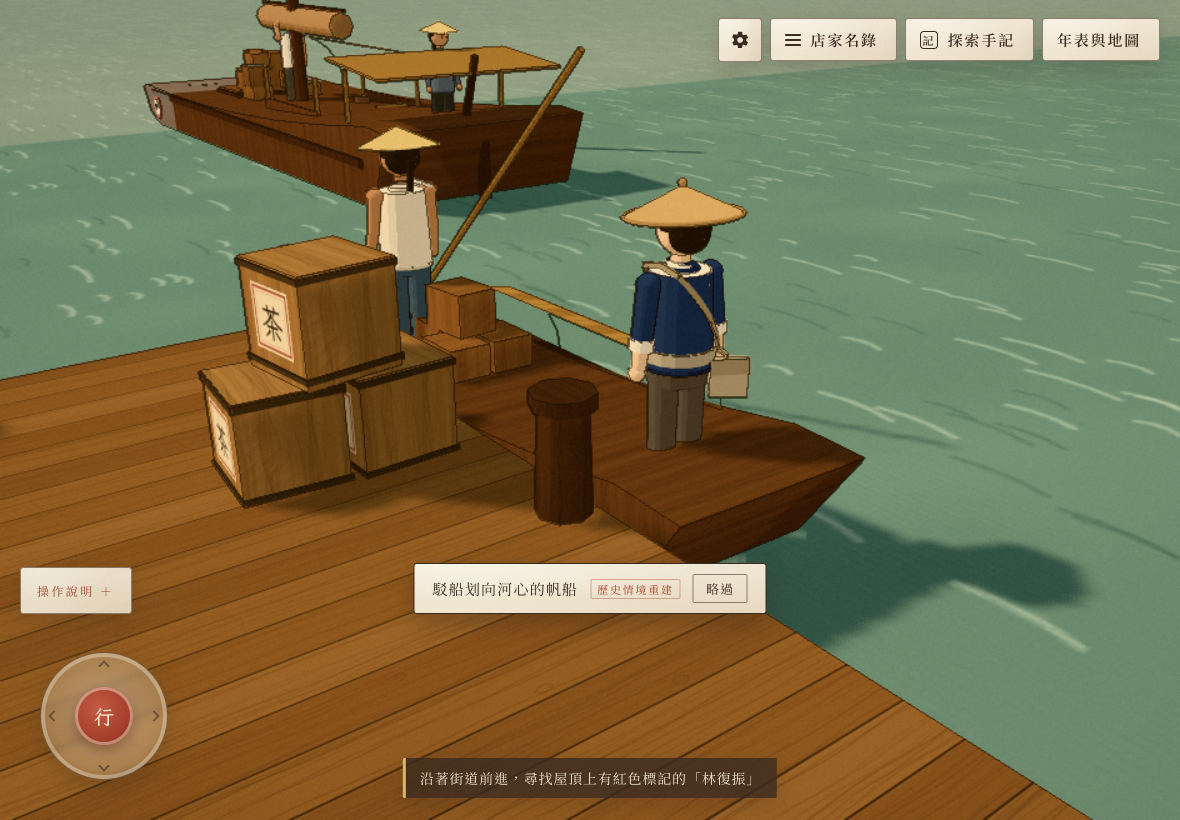
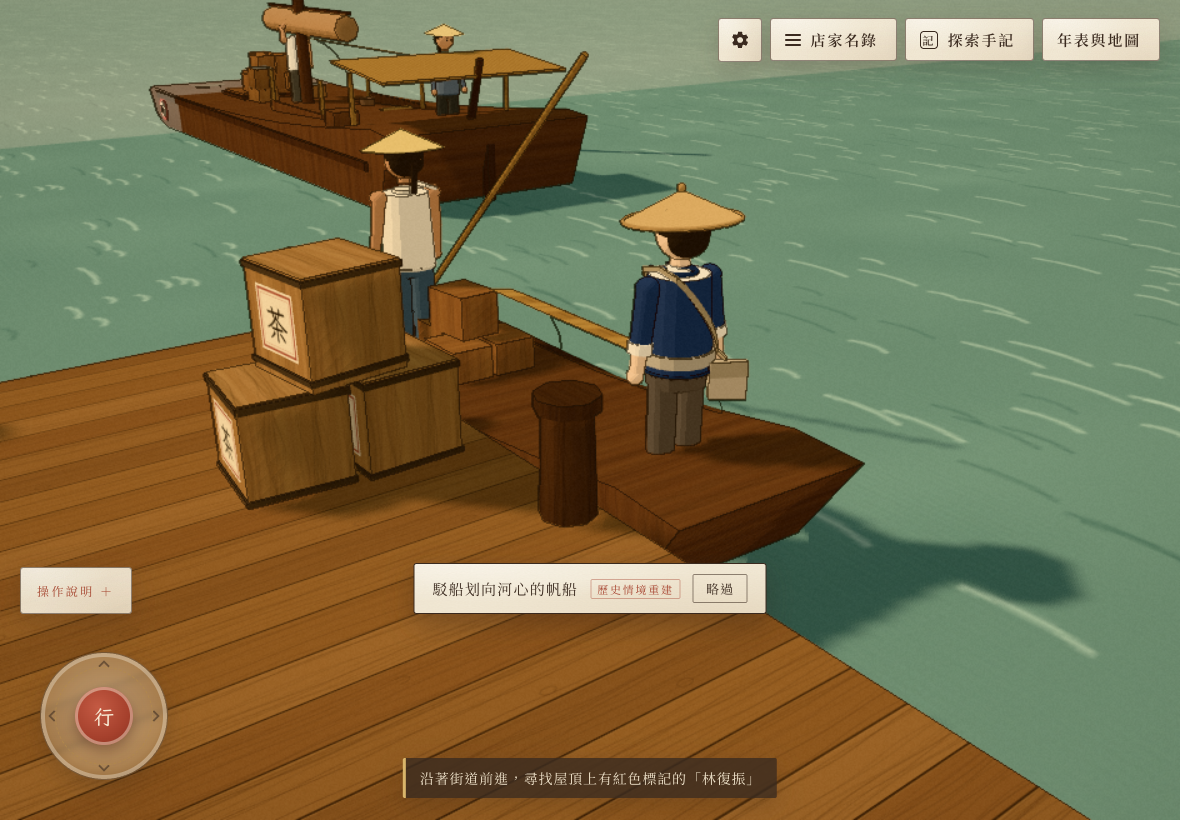
清末搭船: 鴉片箱（只呈現箱子、價格與稅）
- 後甲板右舷角落兩個疊起的鴉片箱，第五件可以近看的器物；外觀查無是重建，不畫內容物、不寫吸食，動作只有轉面
- 五層資訊：封鎖期南部每箱多達一千元（約 p.235）、臺北城改良捐每箱十一元（p.212）、每箱 150–180 元那筆標待核（約 p.246）、1860 年代鴉片快船與打狗躉船（約 pp.171–177）；頁碼以 archive.org 全文 OCR 核對
- 測試：甲板五件器物、不開箱、文字不寫吸食、每句有出處或標示；港口商街器物 10 件
- README、roadmap、研究文件

diff --git a/src/data/qingBoardingObjects.js b/src/data/qingBoardingObjects.js
@@ -3,7 +3,7 @@ import { deckInspectSpot } from './qingBoardingLayout.js'
 /**
  * 清末搭船：帆船甲板上可以近看的器物（第 11 階段的五層資訊格式，見 data/inspectLayers.js）。
  * 查證紀錄見 docs/research/qing-boarding.md；形制查無的部分標「歷史情境重建」（reconstruction）。
- * 鴉片箱先不做（等使用者確認）。
+ * 鴉片箱（2026-11-02 使用者決定加回）：只呈現箱子、價格與稅，每件附出處；不畫內容物、不寫吸食。
  */
 export const QING_BOARDING_OBJECTS = {
   'camphor-box': {
@@ -60,6 +60,34 @@ export const QING_BOARDING_OBJECTS = {
       ],
     },
   },
+  'opium-chest': {
+    id: 'opium-chest',
+    title: '鴉片箱',
+    titleEn: 'Opium chest',
+    lead: '清末淡水、打狗進口的大宗貨之一。買賣、課稅都以「箱」計：封鎖期間南部漲到每箱一千元，城裡的改良捐每箱十一元。這裡只看箱子。',
+    leadEn: 'One of the main imports at late-Qing Tamsui and Takow. It was bought, sold and taxed by the chest: during the blockade the price in the south reached a thousand dollars a chest, and the city improvement levy was eleven dollars a chest. Here we look only at the chest.',
+    actions: [{ id: 'turn', label: '轉過來看側面', labelEn: 'Turn it to see the side', doneLabel: '轉回來', doneLabelEn: 'Turn it back' }],
+    reconstruction: true,
+    sourceIds: ['davidson-formosa-1903'],
+    layers: {
+      form: [
+        { text: '箱子的外觀、尺寸與木料查無：Davidson 書中（已讀到約第 365 頁）沒有描述鴉片箱的樣子。模型只畫木板箱、麻繩與側面一塊空白的記號牌，不畫箱裡的東西。', textEn: 'The chest’s look, size and timber are not found: Davidson (read up to about p. 365) does not describe an opium chest. The model shows only a plank box, rope and a blank marking board on the side, and nothing of what was inside.', status: 'reconstruction' },
+      ],
+      making: [
+        { text: '這件器物只談箱子、價格與稅，不寫內容物怎麼製成或使用。', textEn: 'This object covers only the chest, its price and its tax; it says nothing about how the contents were made or used.', status: 'reconstruction' },
+      ],
+      use: [
+        { text: '1884–85 年法軍封鎖期間，南部的鴉片漲到每箱多達一千元，戎克船為了高運費冒險闖封鎖（Davidson 約第 235 頁）。', textEn: 'During the French blockade of 1884–85 opium in the south rose to as much as a thousand dollars a chest, and junks ran the blockade for the high freights (Davidson, about p. 235).', sourceIds: ['davidson-formosa-1903'] },
+        { text: '臺北城內的改良捐（清賦局）鴉片每箱收十一元，書中註明不含一般的釐金（Davidson 第 212 頁）。', textEn: 'The improvement levy for the walled city of Taipei charged opium eleven dollars a chest, not counting the ordinary likin (Davidson, p. 212).', sourceIds: ['davidson-formosa-1903'] },
+        { text: 'Davidson 另說，除了鴉片，進口貨都免稅；鴉片「多年來」每箱繳一百五十到一百八十元（約第 246 頁）。這筆是什麼稅、從哪一年起，書上這一段沒說清楚，待核。', textEn: 'Davidson also says that imports were exempt except opium, which “for some years” had paid from $150 to $180 a chest (about p. 246). What tax this was, and from which year, the passage does not make clear; to be verified.', status: 'pending', sourceIds: ['davidson-formosa-1903'] },
+      ],
+      where: [{ text: '只在港口商街的帆船後甲板（等著卸上岸的進口貨；擺在這裡是情境重建）。', textEn: 'Only on the junk’s after deck in the Harbour Merchant Street era (imports waiting to be landed; placing them here is a reconstruction).', status: 'reconstruction' }],
+      evidence: [
+        { text: '1860 年代外商在打狗設躉船接收鴉片快船運來的貨，快船也進出淡水；書中說打狗的主要進口貨是鴉片（Davidson 約第 171–177 頁，頁眉殘缺）。', textEn: 'In the 1860s foreign firms kept receiving ships at Takow for the opium brought by their clippers, which also ran into Tamsui; the book says opium was Takow’s chief import (Davidson, about pp. 171–177; running heads damaged).', sourceIds: ['davidson-formosa-1903'] },
+        { text: '頁碼由 OCR 頁眉推得、短引是從全文摘出，沒有對照掃描圖；書的後半（日治的鴉片專賣）還沒讀。', textEn: 'Page numbers are inferred from OCR running heads and the short quotations taken from the full text, not checked against the scans; the later part of the book (the Japanese opium monopoly) has not been read.', status: 'pending' },
+      ],
+    },
+  },
   'boat-eye': {
     id: 'boat-eye',
     title: '船眼',
@@ -95,5 +123,6 @@ export const QING_BOARDING_INSPECTABLES = [
   { id: 'junk-tea-chest', eraId: 'qing-port', objectId: 'tea-chest', label: '艙口板上的茶箱', labelEn: 'Tea chests on the hatch', ...deckInspectSpot('junk-tea-chest') },
   { id: 'junk-camphor-box', eraId: 'qing-port', objectId: 'camphor-box', label: '襯鉛的樟腦箱', labelEn: 'Lead-lined camphor box', ...deckInspectSpot('junk-camphor-box') },
   { id: 'junk-ballast-stones', eraId: 'qing-port', objectId: 'ballast-stones', label: '艙底的壓艙石', labelEn: 'Ballast stones in the hold', ...deckInspectSpot('junk-ballast-stones') },
+  { id: 'junk-opium-chest', eraId: 'qing-port', objectId: 'opium-chest', label: '等著卸上岸的鴉片箱', labelEn: 'Opium chests waiting to be landed', ...deckInspectSpot('junk-opium-chest') },
   { id: 'junk-boat-eye', eraId: 'qing-port', objectId: 'boat-eye', label: '船首的船眼', labelEn: 'Eye on the bow', ...deckInspectSpot('junk-boat-eye') },
 ]

diff --git a/tests/qingBoarding.test.js b/tests/qingBoarding.test.js
@@ -505,7 +505,7 @@ describe('清末搭船：互動點、器物與人物', () => {
 
   test('甲板上四件可以近看的器物都在甲板的樓層、站得到；茶箱的「在哪」多了帆船甲板', () => {
     const deckItems = inspectablesOfEra(QING_BOARDING_ERA).filter((item) => item.level === BOAT_LEVEL)
-    assert.equal(deckItems.length, 4)
+    assert.equal(deckItems.length, 5)
     for (const item of deckItems) {
       assert.ok(INSPECT_OBJECTS[item.objectId], item.id)
       assert.ok(standNear(item.position, item.radius, BOAT_LEVEL), `${item.id} 站不到`)
@@ -518,7 +518,7 @@ describe('清末搭船：互動點、器物與人物', () => {
     assert.ok(inspectablesOfEra(QING_BOARDING_ERA).filter((item) => (item.level ?? 0) === 0).every((item) => !item.id.startsWith('junk-')))
   })
 
-  test('樟腦箱、壓艙石、船眼：五層資訊完整、模型可以產生、有小動作、出處都在 sources.js', () => {
+  test('樟腦箱、壓艙石、船眼、鴉片箱：五層資訊完整、模型可以產生、有小動作、出處都在 sources.js', () => {
     for (const object of Object.values(QING_BOARDING_OBJECTS)) {
       assert.ok(hasFullLayers(object, inspectPlaces(object.id)), `${object.id} 分層不完整`)
       for (const id of layerSourceIds(object)) assert.ok(getSource(id), `${object.id}：出處 ${id}`)
@@ -530,8 +530,14 @@ describe('清末搭船：互動點、器物與人物', () => {
         for (const action of object.actions) assert.ok(built.parts.some((part) => part.animate?.action === action.id), `${object.id}：動作 ${action.id}`)
       }
     }
-    // 鴉片箱先不做
-    assert.ok(!INSPECT_OBJECTS['opium-chest'])
+    // 鴉片箱：只有箱子、價格與稅——不開箱（動作是轉過來看側面）、文字不寫吸食
+    const opium = INSPECT_OBJECTS['opium-chest']
+    assert.ok(opium)
+    assert.deepEqual(opium.actions.map((action) => action.id), ['turn'])
+    const texts = [opium.lead, ...Object.values(opium.layers).flat().map((note) => note.text)].join('')
+    assert.ok(!/吸|抽|菸|煙槍|煙館/.test(texts), '不寫吸食')
+    assert.ok(/每箱/.test(texts) && /一千元/.test(texts) && /十一元/.test(texts), '有價格與稅')
+    for (const note of Object.values(opium.layers).flat()) assert.ok(note.status || note.sourceIds?.length, `每一句有出處或標示：${note.text.slice(0, 12)}`)
   })
 
   test('三位人物的對話：格式正確、標示有出處的句子都附出處、都對應街景裡的人物、站得到', () => {

diff --git a/src/game/builders/qingJunkInspect.js b/src/game/builders/qingJunkInspect.js
@@ -94,7 +94,34 @@ function buildBoatEye({ detail = true } = {}) {
   }
 }
 
+/**
+ * 鴉片箱（進口貨）：只畫外箱——木板拼的箱子、麻繩、側面的記號牌（示意，不仿任何商號）；
+ * 外觀與尺寸查無，是重建。不畫內容物，所以動作是轉過來看側面，不開箱。
+ */
+function buildOpiumChest({ detail = true } = {}) {
+  const W = 0.46
+  const D = 0.42
+  const H = 0.36
+  const root = new Parts()
+  root.add('#8a6a4a', box(W, H, D), { p: [0, H / 2, 0] })
+  // 木板接縫與四角的板條
+  for (const sx of [-1, 1]) for (const sz of [-1, 1]) root.add('#6f5338', box(0.04, H + 0.004, 0.04), { p: [(sx * (W - 0.03)) / 2, H / 2, (sz * (D - 0.03)) / 2] })
+  if (detail) for (const y of [0.12, 0.24]) root.add('#76593d', box(W + 0.004, 0.008, D + 0.004), { p: [0, y, 0] })
+  // 麻繩（十字綑）
+  root.add('#b59c6c', box(W + 0.02, 0.025, 0.03), { p: [0, H + 0.005, 0] })
+  root.add('#b59c6c', box(0.03, 0.025, D + 0.02), { p: [0, H + 0.005, 0] })
+  for (const s of [-1, 1]) root.add('#b59c6c', box(0.03, H, 0.025), { p: [0, H / 2, s * (D / 2 + 0.008)] })
+  // 側面的記號牌（空白，示意貨主記號的位置）
+  root.add('#d9c9a4', box(0.003, 0.14, 0.2), { p: [W / 2 + 0.003, H * 0.55, 0] })
+  return {
+    radius: 0.46,
+    centerY: H / 2,
+    parts: [{ id: 'chest', geometry: root.build(), pivot: [0, H / 2, 0], animate: { action: 'turn', axis: 'y', from: 0, to: -Math.PI / 2 } }],
+  }
+}
+
 export const QING_JUNK_INSPECT_BUILDERS = {
+  'opium-chest': buildOpiumChest,
   'camphor-box': buildCamphorBox,
   'ballast-stones': buildBallastStones,
   'boat-eye': buildBoatEye,

diff --git a/src/game/builders/qingJunk.js b/src/game/builders/qingJunk.js
@@ -163,9 +163,16 @@ export function buildJunkDeck(b, detail = b) {
   b.cylinder('dark', 0.16, 0.13, 0.38, 8, [-0.1, DECK_Y + 0.19, 0.7], { tint: '#6b5240' })
   b.cylinder('wood', 0.15, 0.13, 0.3, 8, [0.2, DECK_Y + 0.15, 0.7], { tint: '#8d6c4d' })
   detail.cylinder('dark', 0.13, 0.13, 0.02, 8, [-0.1, DECK_Y + 0.39, 0.7], { tint: '#4a3f33' })
+  // 後甲板右舷角落：兩個疊起的鴉片箱（進口貨，等著卸上岸；外觀查無，只畫木箱與麻繩，不畫內容物）
+  for (const [y, rot] of [[0.02, 0.05], [0.38, -0.08]]) {
+    b.group([-3.7, DECK_Y + y, -1.47], rot, () => {
+      b.box('wood', [0.46, 0.36, 0.42], [0, 0.18, 0], { tint: '#8a6a4a', grime: 0.4 })
+      detail.box('dark', [0.48, 0.03, 0.44], [0, 0.26, 0], { tint: '#5a4a38' })
+    })
+  }
   // 後甲板：繩索捲與水桶
-  b.cylinder('dark', 0.3, 0.3, 0.16, 10, [-3.2, DECK_Y + 0.08, -1.2], { tint: '#6b5a44' })
-  detail.cylinder('dark', 0.2, 0.2, 0.2, 10, [-3.2, DECK_Y + 0.1, -1.2], { tint: '#7a6850' })
+  b.cylinder('dark', 0.3, 0.3, 0.16, 10, [-3.0, DECK_Y + 0.08, -0.35], { tint: '#6b5a44' })
+  detail.cylinder('dark', 0.2, 0.2, 0.2, 10, [-3.0, DECK_Y + 0.1, -0.35], { tint: '#7a6850' })
   b.cylinder('wood', 0.14, 0.12, 0.3, 8, [-2.4, DECK_Y + 0.15, -1.35], { tint: '#8d6c4d' })
   // 甲板上散落的篾條與一張草蓆（精緻畫質）
   detail.box('bamboo', [1.1, 0.02, 0.6], [-3.9, DECK_Y + 0.045, 0.9], { tint: '#cdb98a' })

diff --git a/src/data/qingBoardingLayout.js b/src/data/qingBoardingLayout.js
@@ -88,6 +88,8 @@ export const DECK_OBSTACLES = [
   { id: 'mast', minX: MAST.x - MAST.radius, maxX: MAST.x + MAST.radius, minZ: -MAST.radius, maxZ: MAST.radius, height: MAST.height },
   { id: 'hatch', ...HATCH, height: 0.95 },
   { id: 'bow', minX: 4.7, maxX: 5.5, minZ: -1.75, maxZ: 1.75, height: 0.6 },
+  // 後甲板右舷角落：等著卸上岸的鴉片箱（進口貨；只有箱子）
+  { id: 'opium-chests', minX: -3.95, maxX: -3.45, minZ: -1.72, maxZ: -1.22, height: 0.75 },
 ]
 
 /** 棧橋頭：換年代、落水或回程時人物回到這裡，面向街道（+x） */
@@ -272,6 +274,7 @@ export const DECK_INSPECT_SPOTS = {
   'junk-camphor-box': { local: [2.2, 0.75, -0.55], prompt: [2.2, 1.5, -0.55], radius: 1.4 },
   // 壓艙石的提示點在艙口左舷的框邊（站在艙口旁往下看），和茶箱、樟腦箱各有自己最近的站位
   'junk-ballast-stones': { local: [2.7, 0.3, 0.7], prompt: [2.7, 1.7, 0.7], radius: 1.3 },
+  'junk-opium-chest': { local: [-3.7, 0.5, -1.47], prompt: [-3.7, 1.4, -1.47], radius: 1.4 },
   'junk-boat-eye': { local: [5.1, 0.6, 1.4], prompt: [5.0, 1.5, 1.2], radius: 1.7 },
 }
 

diff --git a/docs/research/qing-boarding.md b/docs/research/qing-boarding.md
@@ -256,3 +256,20 @@
 - 甲板的碰撞在自己的樓層（`BOAT_LEVEL = 5`），標 `inBuilding` 與 `exitTo`：在船上換年代，人物回到棧橋頭、面向街道（`collision.exitPointAt`）；蓆篷裡用貼近障礙物的鏡頭規則（followAreas）。蓆篷抬高到 1.95 m（照片上的篷較低，為了人物與鏡頭）。
 - 船上的人物與器物在甲板的樓層；水手站在桅與貨艙口之間（原本放在貨艙口旁會把側邊通道擋死，單元測試抓到）。
 - 沒做／待辦：鴉片箱（等使用者確認）；時光渡船（第二步）；爐主的原書音譯（看掃描圖）；在 iPad 實機量幀率。
+
+# 鴉片箱（2026-11-02 加回）
+
+使用者決定加回，照提案 C：只呈現箱子、價格與稅，每件附出處；不畫內容物、不寫吸食。擺在後甲板右舷角落（等著卸上岸的進口貨，擺放是重建）。
+
+Davidson 1903 以 archive.org 全文（OCR）核對；頁碼由頁眉推得、短引從全文摘出，沒看掃描圖；只讀到約第 365 頁，後半的日治鴉片專賣沒讀。
+
+| 項目 | 結果 | 頁碼 | 原文短引 | 用法 |
+| --- | --- | --- | --- | --- |
+| 以箱計價、課稅 | 確認 | p.212、約 p.235、約 p.246 | "per chest" | 器物說明 |
+| 封鎖期南部每箱多達 1,000 元 | 確認 | 約 p.235 | "as much as $1,000 a chest" | 1884–85，戎克船闖封鎖 |
+| 臺北城改良捐每箱 11 元 | 確認 | p.212 | "Opium $11 per chest" | 書中註明不含一般釐金 |
+| 每箱 150–180 元 | 數字確認、性質待核 | 約 p.246 | "paying from $150 to $180 a chest for some years" | 什麼稅、從哪年起不清楚，標待核 |
+| 1860 年代鴉片快船、打狗躉船 | 確認 | 約 pp.171–177 | "receiving ship for the opium brought" | 照片與文獻層 |
+| 鴉片箱的外觀、尺寸、材質 | 查無（前 365 頁） | — | — | 模型重建：木板箱、麻繩、空白記號牌 |
+
+原提案寫的「清賦每箱 11 元」更正為「臺北城改良捐（清賦局）每箱 11 元，不含釐金」。

diff --git a/docs/roadmap.md b/docs/roadmap.md
@@ -157,7 +157,7 @@
 使用者（2026-11-02）決定：先只在港口商街做「搭駁船上河道中的帆船」第一版，之後再做「時光渡船」（各年代的船）。查證與設計在 `docs/research/qing-boarding.md`。
 
 - ☑ 第一版（PR 清末搭船）：帆船換成 Davidson 1903 基隆河圖版的形制（單桅、船中蓆篷、12 m，標推定相近）；棧橋頭「搭船」→ 約 6 秒可略過的划船動畫 → 甲板（自己的碰撞樓層，`inBuilding`＋`exitTo`）→ 舷梯口回程；三位可交談人物（駁船船夫、舵工、水手）；四件器物（茶箱、襯鉛樟腦箱、壓艙石、船眼）；**人物可以落水**（水花、黑幕、回棧橋頭，標「虛構情節」）；甲板按需產生、不投射不接收陰影；流暢畫質街景批次與港口商街室內基準不變。配置 `src/data/qingBoardingLayout.js`、狀態機 `src/game/boarding.js`、建模 `src/game/builders/qingJunk.js`、測試 `tests/qingBoarding.test.js`、`tests/e2e/qingBoarding.e2e.mjs`。
-- ☐ 鴉片箱（有出處：以箱計價、封鎖期每箱 1,000 元；只放箱子與計價、不畫內容物、不寫吸食）：等使用者確認再做。
+- ☑ 鴉片箱（使用者 2026-11-02 決定加回）：後甲板等著卸上岸的進口貨；只呈現箱子、價格（封鎖期每箱多達 1,000 元）與稅（臺北城改良捐每箱 11 元；每箱 150–180 元那筆待核），不畫內容物、不寫吸食。
 - ☐ 時光渡船：各年代的船（日治初期汽船與單桅帆船、戰後渡輪、2004 藍色公路）與搭船；各年代的船隻資料已記在研究文件第 5 節，形制與票價多數待查。
 - ☐ 爐主的原書音譯（Davidson p.209）看掃描圖；iPad 實機量幀率。
 
